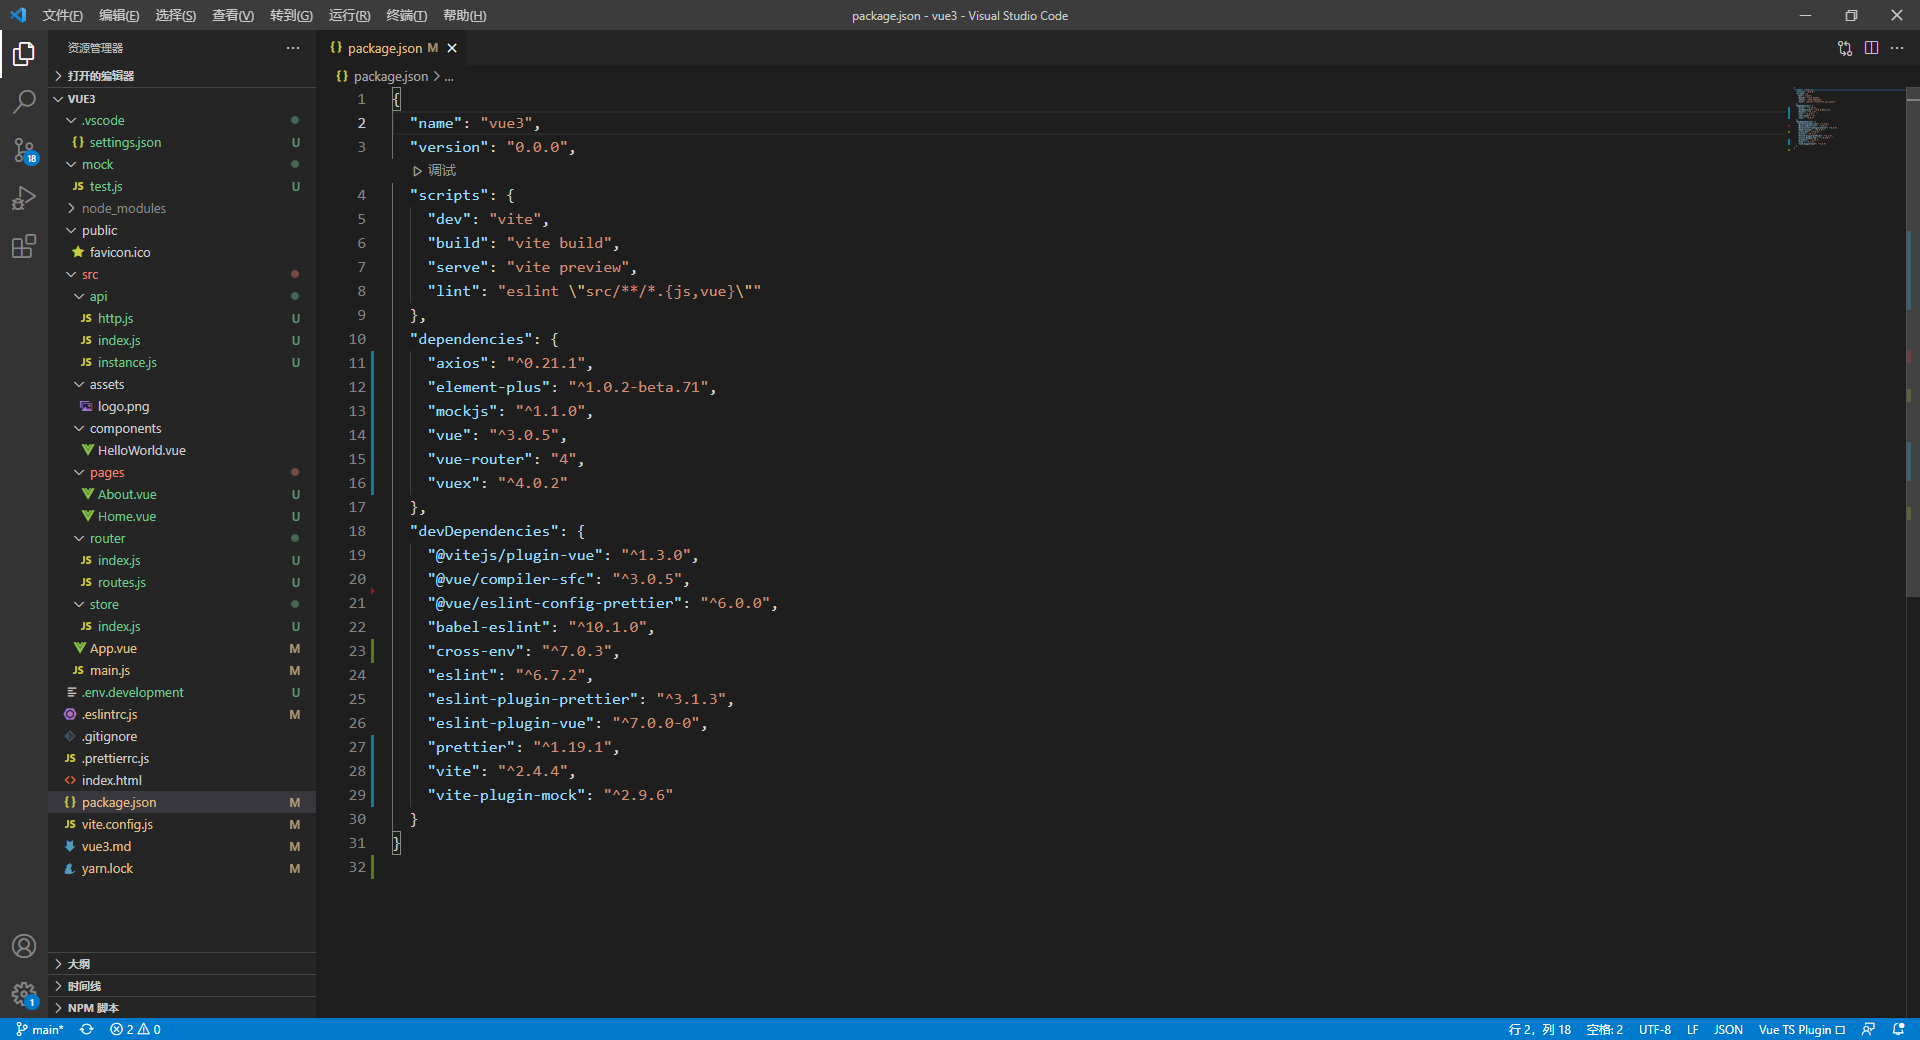
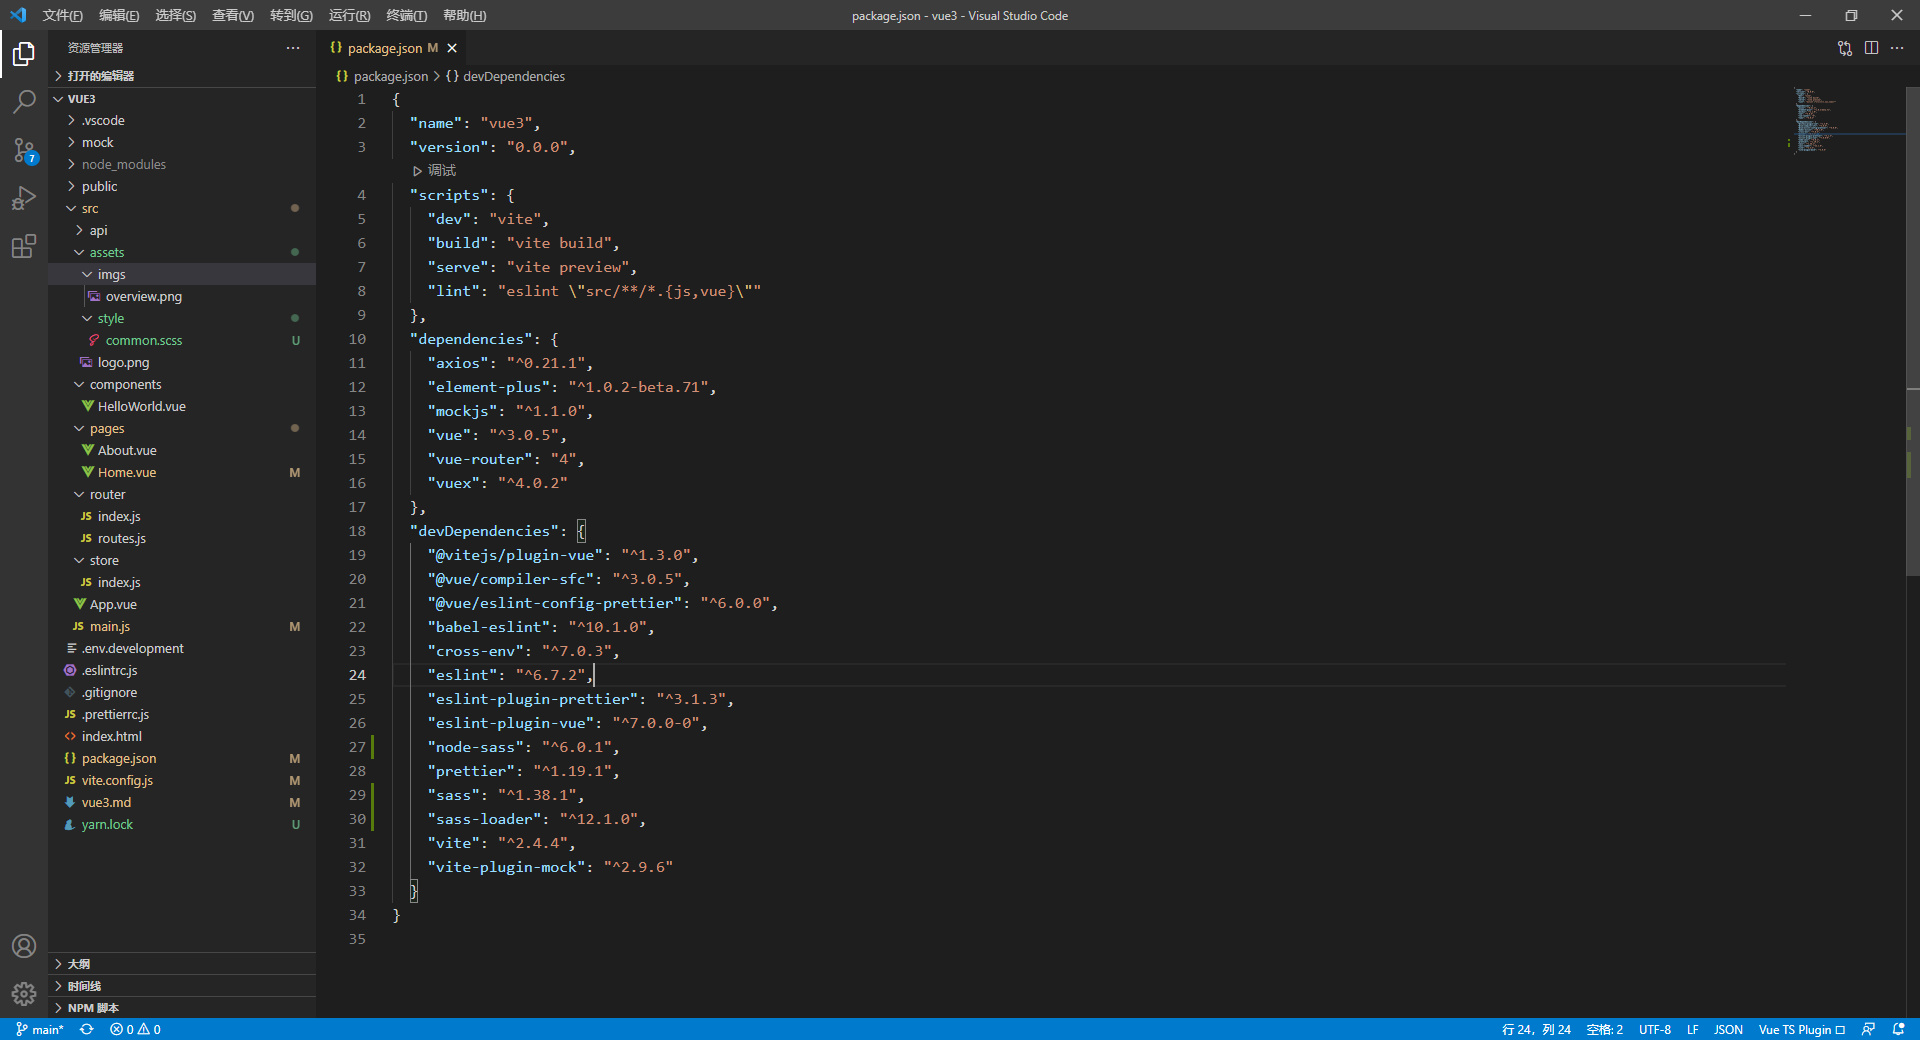
feat: 增加css配置

diff --git a/src/pages/Home.vue b/src/pages/Home.vue
@@ -1,18 +1,22 @@
 <template>
   <img alt="Vue logo" src="@/assets/logo.png" />
   <HelloWorld msg="Hello Vue 3 + Vite" />
-  <div>{{ count }}</div>
+  <div class="box">
+    <span>{{ count }}</span>
+  </div>
   <el-button type="primary" @click="increment">主要按钮</el-button>
 </template>
 
 <script setup>
 import HelloWorld from '@/components/HelloWorld.vue'
+import { onMounted } from 'vue'
 import { computed } from '@vue/reactivity';
 import { useStore } from 'vuex'
-import { mockGet } from "@/api";
+import { mockGet } from '@/api'
 
 const store = useStore()
 const count = computed(() => store.state.count)
+
 
 const increment = () => {
   store.commit('increment')
@@ -21,12 +25,14 @@ const increment = () => {
 const incrementDispatch = () => {
   store.dispatch('increment')
 }
-try {
-  const res = await mockGet()
-  console.log(res, 'res');
-} catch (error) {
-  console.error(error);
-}
+onMounted(async () => {
+  try {
+    const res = await mockGet()
+    console.log(res, 'res');
+  } catch (error) {
+    console.error(error);
+  }
+})
 // fetch('/api/get').then(res => {
 //   console.log(res)
 // })
@@ -34,4 +40,9 @@ try {
 </script>
 
 <style lang="scss" scoped>
+.box {
+  span {
+    color: $text-color;
+  }
+}
 </style>

diff --git a/vite.config.js b/vite.config.js
@@ -16,6 +16,13 @@ export default ({ command }) => {
         localEnabled: command === 'serve',
       }),
     ],
+    css: {
+      preprocessorOptions: {
+        scss: {
+          additionalData: `@import "@/assets/style/common.scss";`
+        }
+      }
+    },
     resolve: {
       alias: {
         '@': path.resolve(__dirname, 'src'),

diff --git a/src/main.js b/src/main.js
@@ -2,7 +2,6 @@ import { createApp } from 'vue'
 import App from './App.vue'
 import router from './router'
 import store from './store'
-import axios from 'axios'
 
 import ElementPlus from 'element-plus'
 import 'element-plus/lib/theme-chalk/index.css'

diff --git a/src/assets/style/common.scss b/src/assets/style/common.scss
@@ -1,0 +1,1 @@
+$text-color: red

diff --git a/vue3.md b/vue3.md
@@ -4,6 +4,54 @@
 ![项目结构预览](./src/assets/imgs/overview.png)
 
 ## Vite配置
+
+配置预览
+
+```javascript
+// import { defineConfig } from 'vite'
+import vue from '@vitejs/plugin-vue'
+import path from 'path'
+import { viteMockServe } from 'vite-plugin-mock'
+
+// https://vitejs.dev/config/
+export default ({ command }) => {
+  return {
+    plugins: [
+      vue(),
+      viteMockServe({
+        mockPath: 'mock', // 指定 mock 数据文件夹路径
+        supportTs: false, // 启用 ts
+        // command === serve: 由开发服务器调用的插件
+        // command === build: 由 Rollup 调用的插件
+        localEnabled: command === 'serve',
+      }),
+    ],
+    css: {
+      preprocessorOptions: {
+        scss: {
+          additionalData: `@import "@/assets/style/common.scss";`
+        }
+      }
+    },
+    resolve: {
+      alias: {
+        '@': path.resolve(__dirname, 'src'),
+      },
+    },
+    server: {
+      // proxy: {
+      //  '/api': {
+      //    target: 'http://localhost:64368',
+      //    changeOrigin: true,
+      //    rewrite: path => path.replace(/^\/api/, ''),
+      //  },
+      // },
+    },
+  }
+}
+
+```
+
 1. 配置 base 公共基础路径， `vite.config.js`
 
 ```javascript
@@ -42,6 +90,48 @@ export default defineConfig({
 })
 
 ```
+
+
+
+## CSS预处理器
+
+1. 安装对应的CSS处理器，这里以`scss`为例，
+
+`yarn add sass node-sass sass-loader -D `
+
+`package.json`
+
+```json
+{
+  "devDependencies": {
+    "node-sass": "^6.0.1",
+    "sass": "^1.38.1",
+    "sass-loader": "^12.1.0",
+  }
+}
+
+```
+
+2. 配置全局scss，`vite.config.js`
+
+```json
+// https://vitejs.dev/config/
+export default ({ command }) => {
+  return {
+    css: {
+      preprocessorOptions: {
+        scss: {
+          additionalData: `@import "@/assets/style/common.scss";`
+        }
+      }
+    },
+    
+  }
+}
+
+```
+
+
 
 ## eslint
 
@@ -110,7 +200,7 @@ module.exports = {
 
 4. 根目录下新建`.vscode/settings.json`
 
-```
+```json
 {
   // VScode主题配置
   "editor.tabSize": 2,
@@ -483,16 +573,18 @@ export default{
 
 5. 组件中调用接口
 
-```javascript
+```vue
 <script setup>
-import { mockGet } from "@/api";
+import { onMounted } from 'vue'
 
-try {
-  const res = await mockGet()
-  console.log(res, 'res');
-} catch (error) {
-  console.error(error);
-}
+onMounted(async () => {
+  try {
+    const res = await mockGet()
+    console.log(res, 'res');
+  } catch (error) {
+    console.error(error);
+  }
+})
 
 </script>
 
